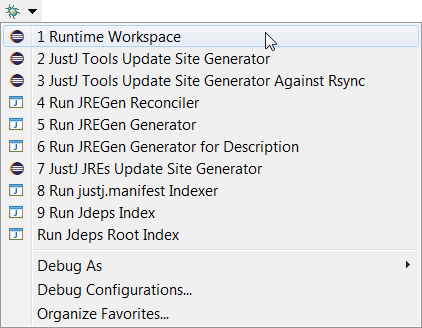
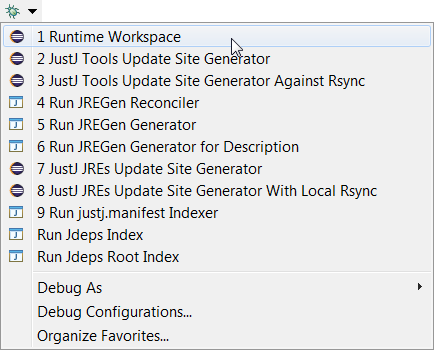
Bug 562908 - Populate the JustJ Git clones with initial content
Update the documentation to include the new launch configuration.

Changed region(s): [[0.0, 0.0, 1.0, 0.7622], [0.0616, 0.7927, 0.4621, 1.0], [0.955, 0.7927, 0.9858, 0.8232]]

diff --git a/content/developer.php b/content/developer.php
@@ -307,6 +307,13 @@ The following launchers are available on the <span class="detail">Debug</span> t
     this is useful for debugging the specialized site index generation for JRE p2 repositories.
   </dd> 
   
+  <dt><span class="detail">JustJ JREs Update Site Generator With Local Rsync</span></dt>
+  <dd>
+    Launches the <code>org.eclipse.justj.p2.manager</code> application for the JRE repository;
+    this is useful for debugging the specialized site index generation for JRE p2 repositories, including super update sites,
+    and for testing rsynch integration locally.
+  </dd> 
+  
   <dt><span class="detail">Run justj.manifest Indexer</span></dt>
   <dd>
     Launches <code>org.eclipse.justj.codegen.model.util.Indexer</code> to produce an index like <code><a href="https://download.eclipse.org/justj/sandbox/jres/14/downloads/latest/">https://download.eclipse.org/justj/sandbox/jres/14/downloads/latest/</a></code>;
